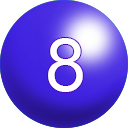
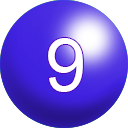
Added balls
Balls 0 and 9 added. 0 only has 15% chance to generate. Screen
resolution is now 640x960

diff --git a/Assets/Scripts/changeColor.cs b/Assets/Scripts/changeColor.cs
@@ -1,25 +1,34 @@
 using UnityEngine;
 using System.Collections;
 
-public class changeColor : MonoBehaviour {
+public class changeColor : MonoBehaviour
+{
 
-	public Sprite[] ballSprites;
+    public Sprite[] ballSprites;
 
-	void Awake()
-	{
-		// load all frames in b array
-		ballSprites = Resources.LoadAll<Sprite>("balls");
-	}
+    void Awake()
+    {
+        // load all frames in b array
+        ballSprites = Resources.LoadAll<Sprite>("balls");
+    }
 
-	void Start ()
-	{
-		int num = Random.Range(1,9);
+    void Start()
+    {
+        int num;
+        if (Random.Range(0, 100) <= 15)
+        {
+            num = 0;
+        }
+        else
+        {
+            num = Random.Range(1, 10);
+        }
 
-		// create the object
-		//GameObject ball = new GameObject();
-		// add a "SpriteRenderer" component to the newly created object
-		this.gameObject.AddComponent<SpriteRenderer>();
-		// assign random number
-		this.gameObject.GetComponent<SpriteRenderer>().sprite = ballSprites[num];
-	}
+        // create the object
+        //GameObject ball = new GameObject();
+        // add a "SpriteRenderer" component to the newly created object
+        this.gameObject.AddComponent<SpriteRenderer>();
+        // assign random number
+        this.gameObject.GetComponent<SpriteRenderer>().sprite = ballSprites[num];
+    }
 }
